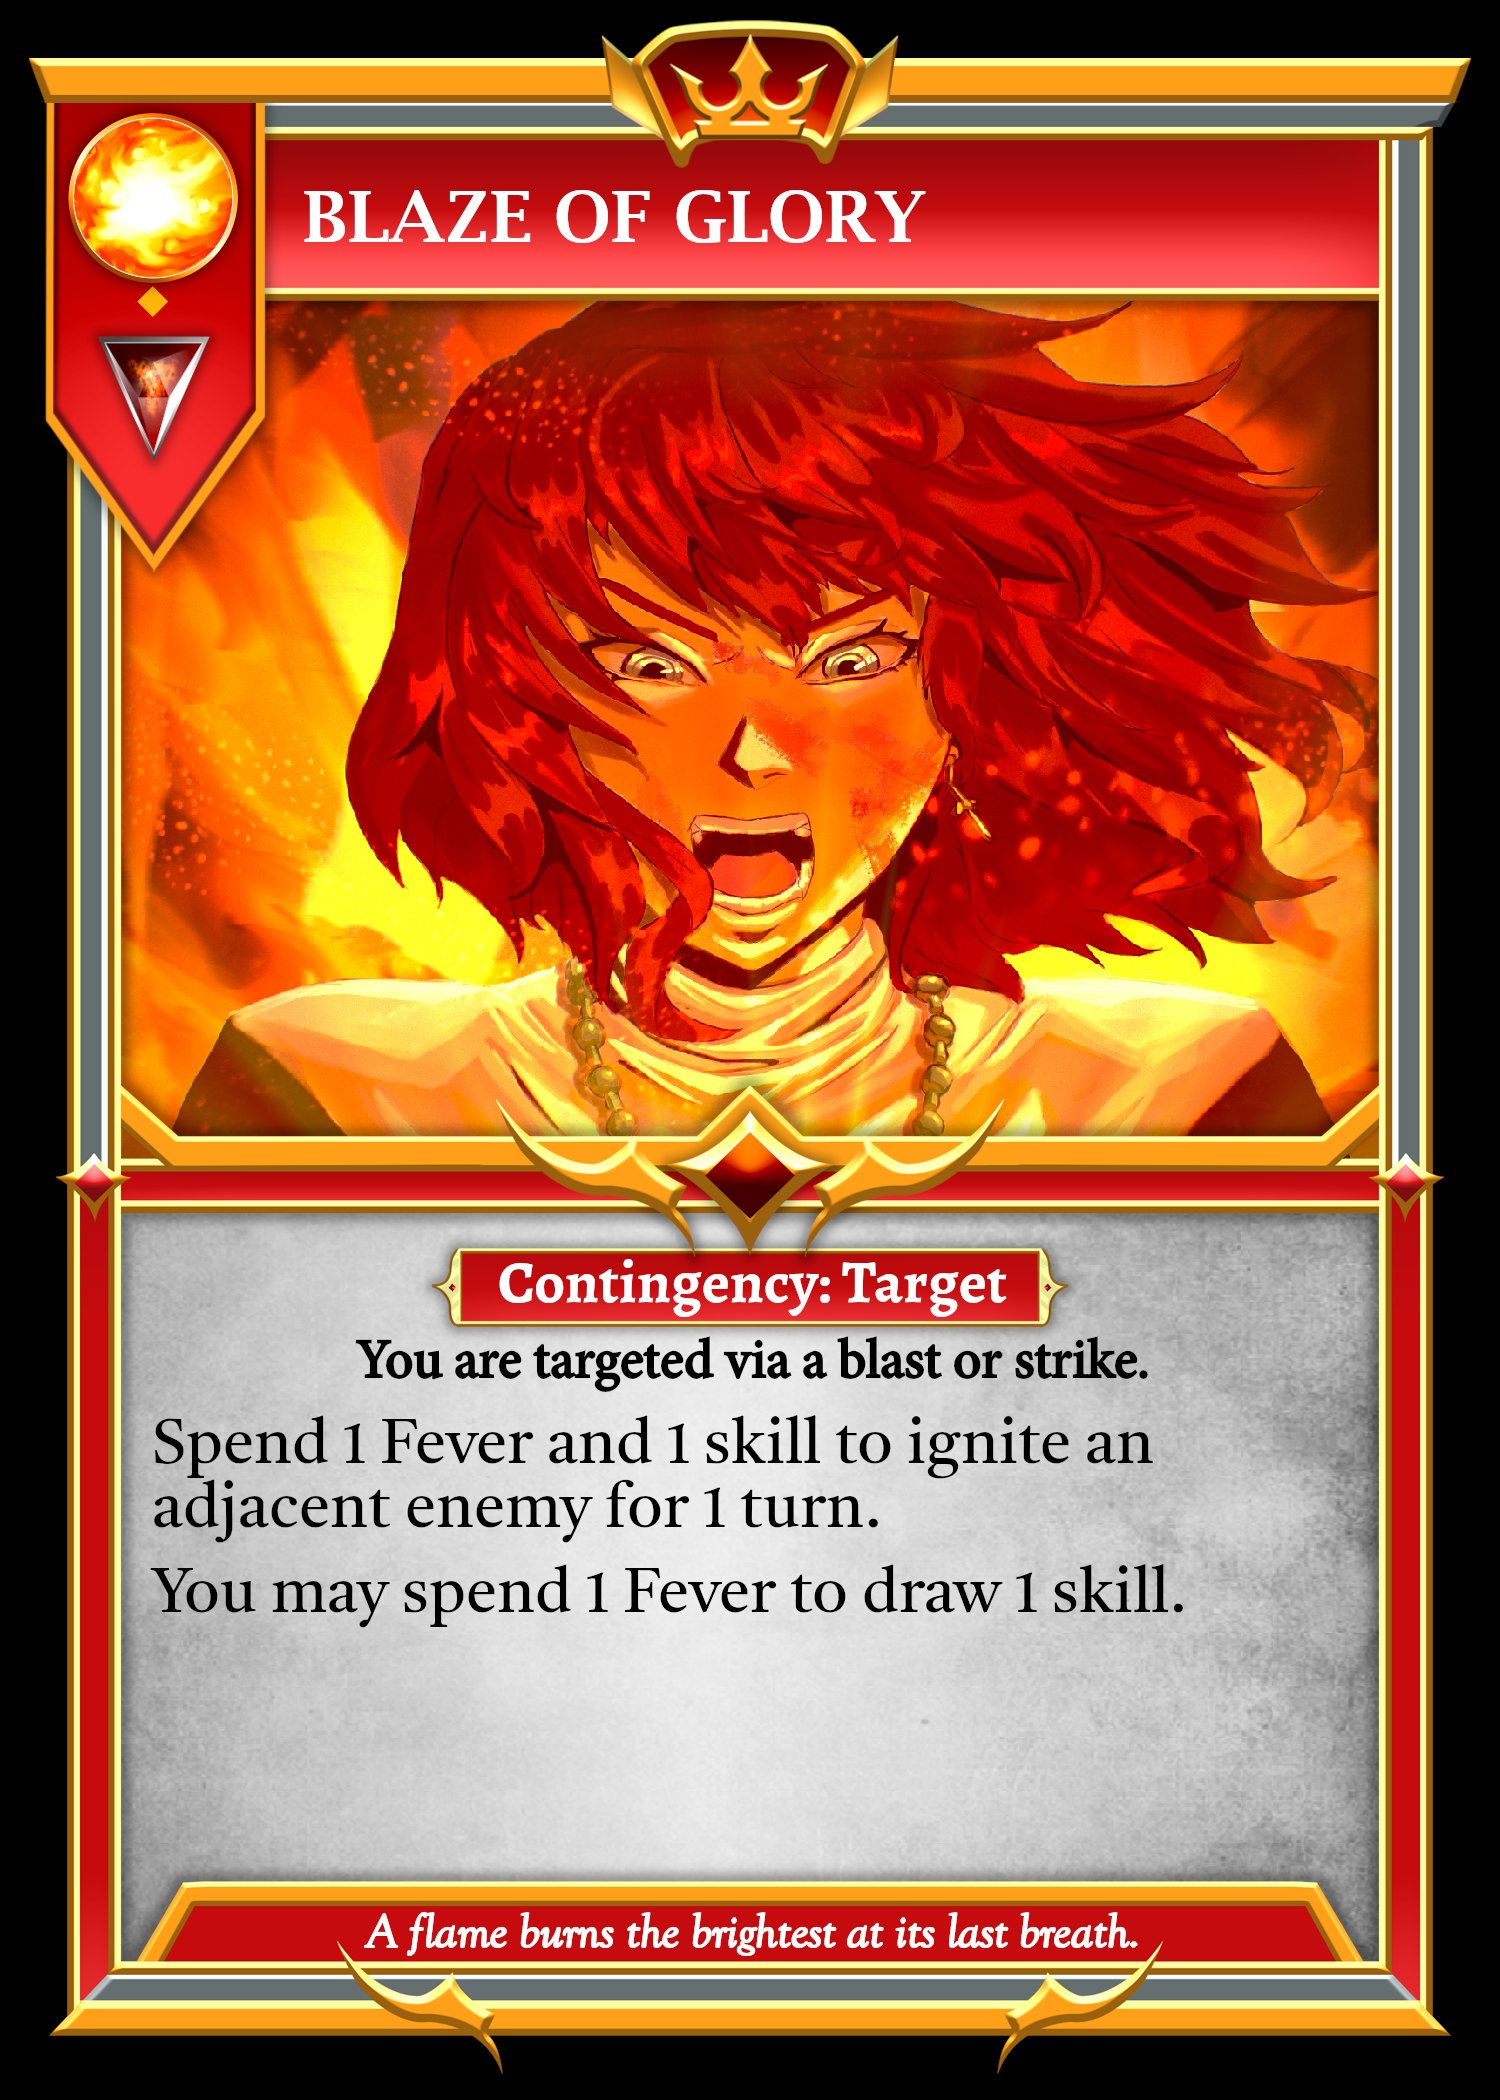
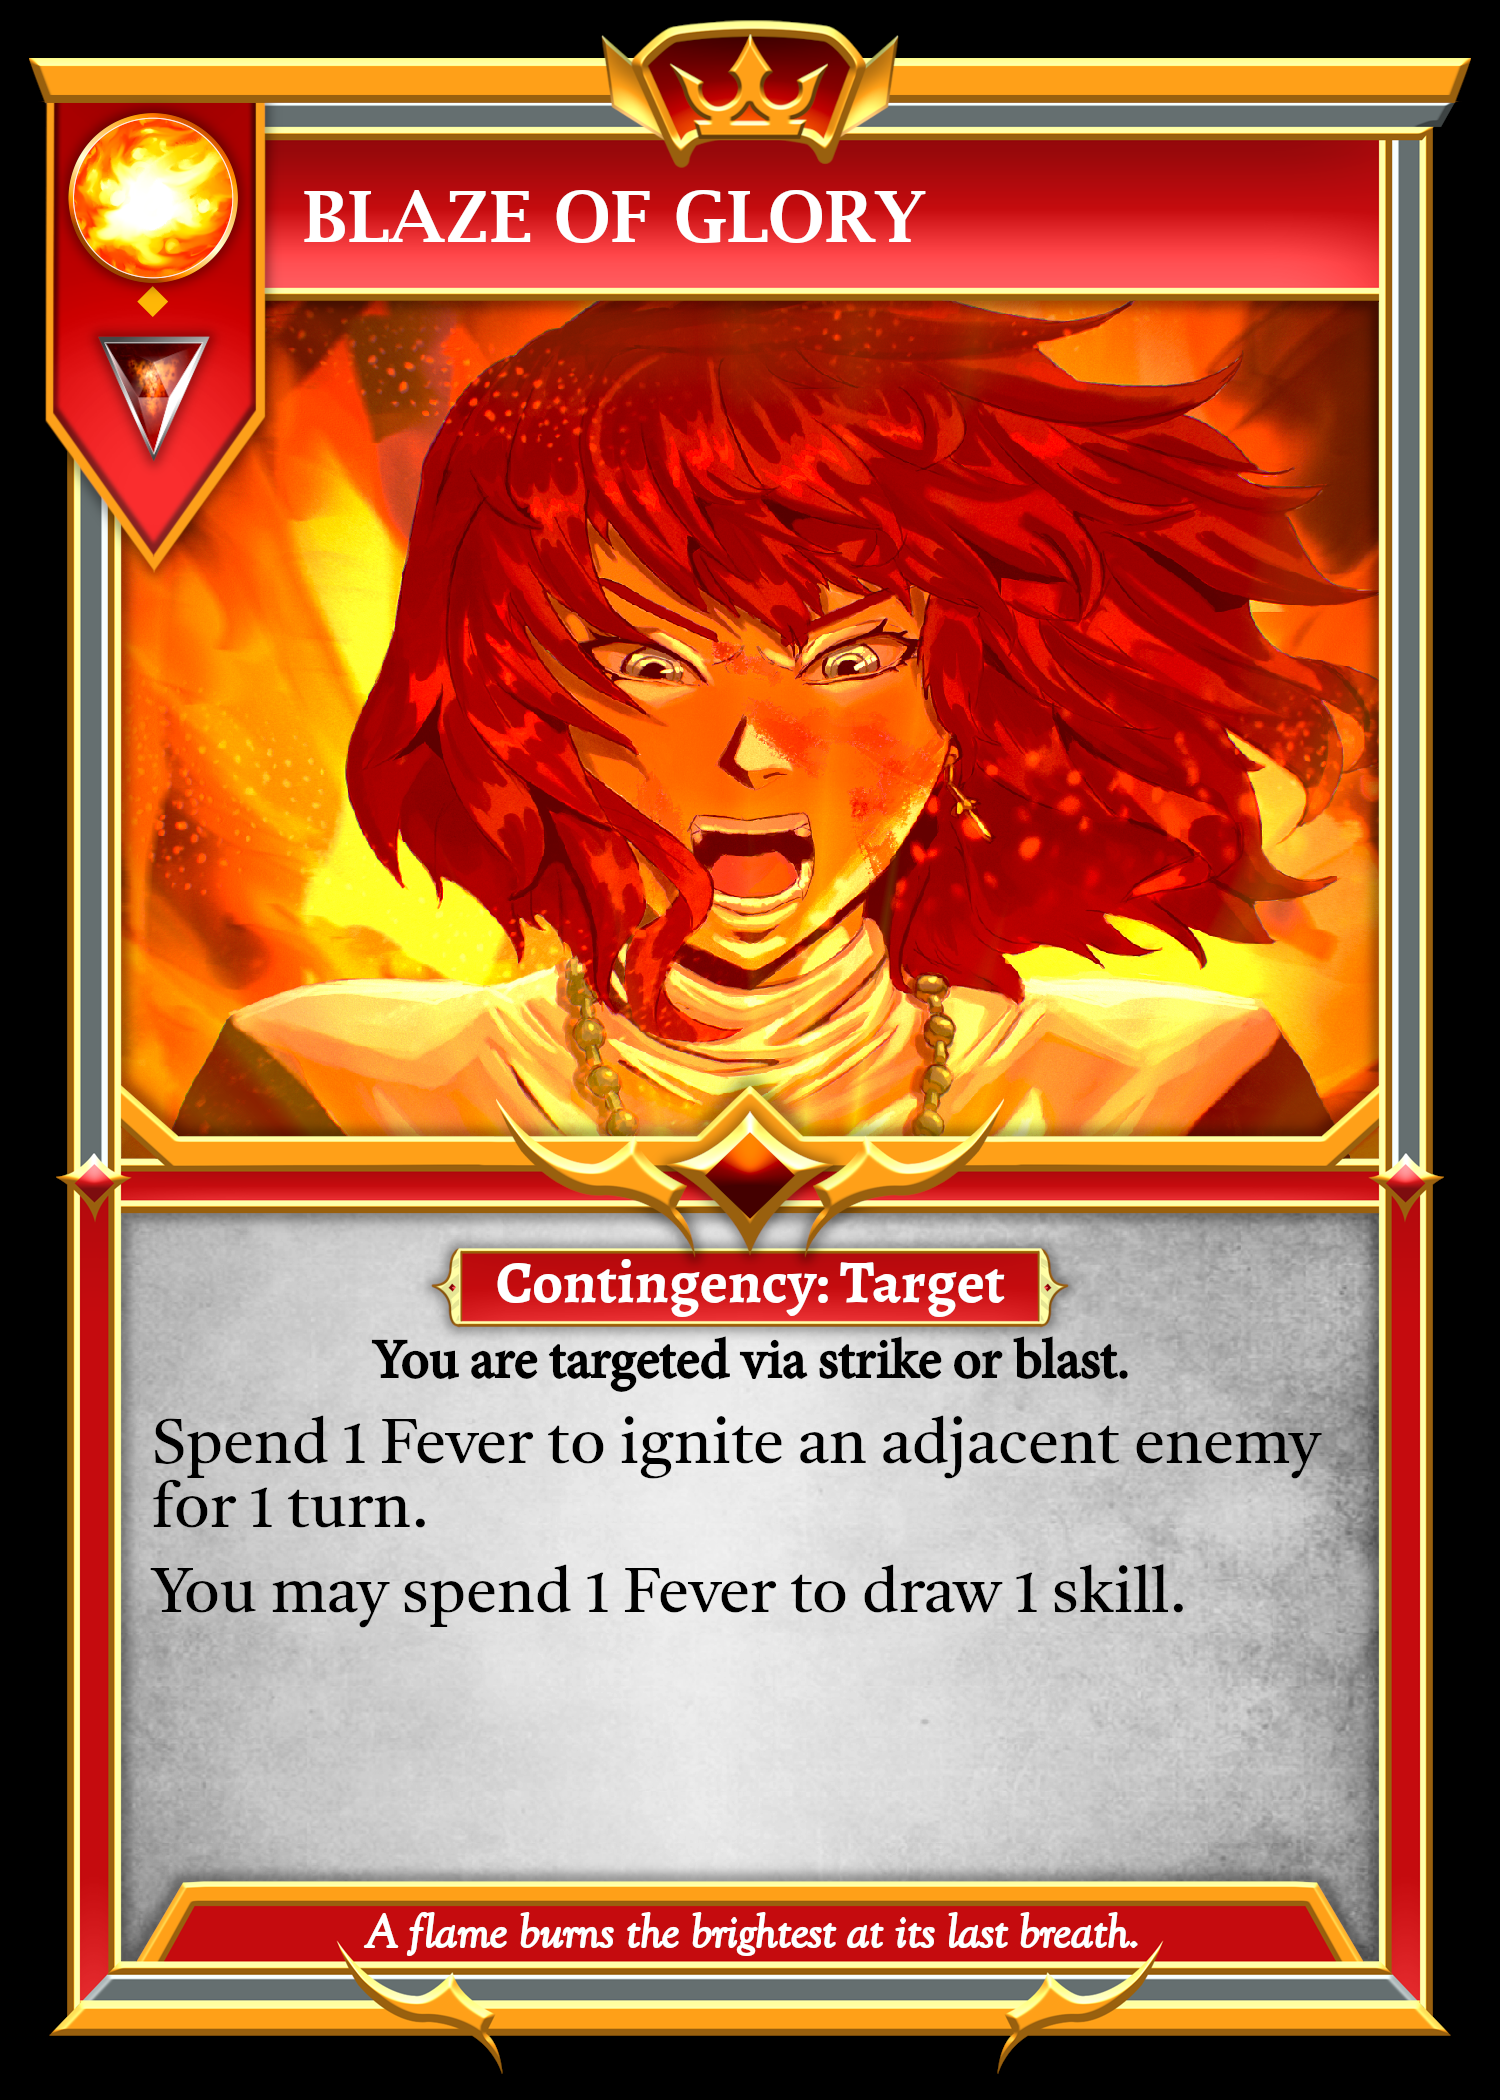
balance patch

Changed region(s): [[0.092, 0.5881, 0.8893, 0.7429]]

diff --git a/src/components/modals/SelectSovereignTactic.jsx b/src/components/modals/SelectSovereignTactic.jsx
@@ -157,12 +157,13 @@ const SelectSovereignTactic = (props) => {
                 ⬩Reroll this tactic. <br />
                 If the result is{" "}
                 <img src={InvokeSmall} style={{ height: 21 }} />, convert it to{" "}
-                <img src={AssaultSmall} style={{ height: 21 }} />.
+                <img src={MobilizeSmall} style={{ height: 21 }} />.
               </div>
               <div className="abilityText ">⬩Gain 1 FD.</div>
-              <div className="abilityText ">
+              {/* nerfed: no longer recovers transcendence */}
+              {/* <div className="abilityText ">
                 ⬩You may recover 1 “Transcendence”.
-              </div>
+              </div> */}
             </>
           ),
         },
@@ -374,16 +375,17 @@ const SelectSovereignTactic = (props) => {
               newGameState[self].fateDefiances + 1
             );
 
-            if (newGameState[self].skillVestige.includes("SX-01")) {
-              newGameState.currentResolution.push({
-                resolution: "Recover Skill",
-                player: self,
-                restriction: ["SX-01"],
-                message: "You may recover 1 “Transcendence”",
-                outcome: "Add",
-                canSkip: true,
-              });
-            }
+            //Nerfed: no longer recovers transcendence
+            // if (newGameState[self].skillVestige.includes("SX-01")) {
+            //   newGameState.currentResolution.push({
+            //     resolution: "Recover Skill",
+            //     player: self,
+            //     restriction: ["SX-01"],
+            //     message: "You may recover 1 “Transcendence”",
+            //     outcome: "Add",
+            //     canSkip: true,
+            //   });
+            // }
             break;
         }
         break;

diff --git a/src/hooks/useSkillEffects.jsx b/src/hooks/useSkillEffects.jsx
@@ -203,24 +203,23 @@ export const useSkillEffects = () => {
     newGameState.currentResolution.push({
       resolution: "Fire Skill",
       resolution2: "Blaze of Glory2",
-      // resolution: "Blaze of Glory2",
       unit: unit,
     });
 
     newGameState.currentResolution.push({
       resolution: "Fire Skill",
       resolution2: "Blaze of Glory1",
-      // resolution: "Blaze of Glory1",
       unit: unit,
     });
 
-    newGameState.currentResolution.push({
-      resolution: "Discard Skill",
-      unit: unit,
-      player: self,
-      message: "Spend 1 skill.",
-      restriction: null,
-    });
+    //Buffed; no need to spend
+    // newGameState.currentResolution.push({
+    //   resolution: "Discard Skill",
+    //   unit: unit,
+    //   player: self,
+    //   message: "Spend 1 skill.",
+    //   restriction: null,
+    // });
 
     return newGameState;
   };

diff --git a/src/hooks/useRecurringEffects.jsx b/src/hooks/useRecurringEffects.jsx
@@ -4955,7 +4955,7 @@ export const useRecurringEffects = () => {
       !isMuted(victim) &&
       !isDisrupted(victim, 1) &&
       ["strike", "virtue-blast", "blast"].includes(method) && //only attacks can trigger it
-      localGameState[victim.player].skillHand.length > 1 && //needs at least 2 cards: Blaze of Glory itself + 1 card to discard
+      localGameState[victim.player].skillHand.length > 0 &&
       victim.fever > 0 && //enemy needs fever
       getZonesWithEnemies(victim, 1).length //must be able to burn an adjacent enemy
     ) {
